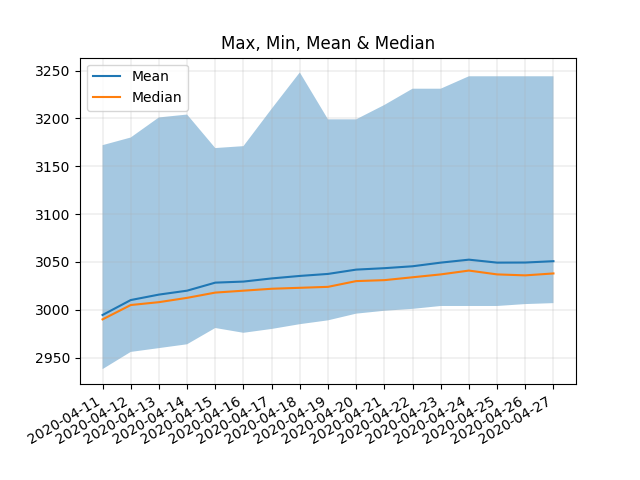
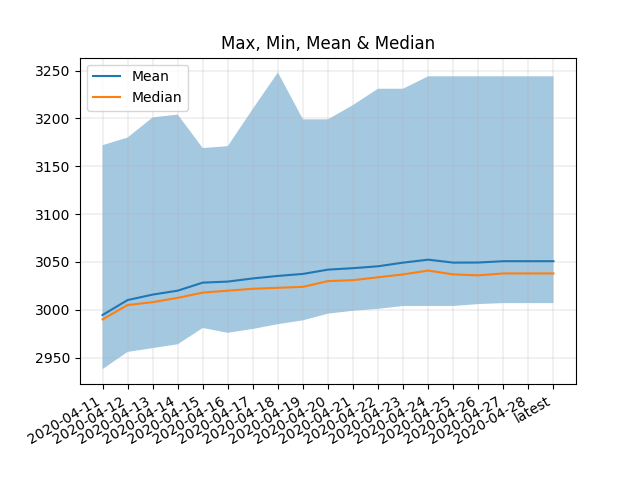
Tue Apr 28 10:18:40 EDT 2020

diff --git a/script/curl_leaderboards.py b/script/curl_leaderboards.py
@@ -7,7 +7,9 @@ import os
 pwd_path = os.path.realpath(__file__).rstrip("curl_leaderboards.py")
 stamp = datetime.today().strftime('%Y-%m-%d')
 stamp_json = f'{stamp}.json'
+latest_json = f'latest.json'
 json_file = os.path.join(pwd_path, "json", stamp_json)
+latest_file = os.path.join(pwd_path, "json", latest_json)
 
 url = "https://pokemongolive.com/_api/gbl.get_leaderboard"
 headers = {
@@ -28,3 +30,8 @@ json_data = json.loads(r.content)
 
 with open(json_file, 'w') as outfile:
     json.dump(json_data, outfile)
+
+with open(latest_file, 'w') as outfile:
+    json.dump(json_data, outfile)
+
+

diff --git a/README.md b/README.md
@@ -1,10 +1,12 @@
 # MMR Drift Status
 
-**Last Updated (UTC):** 2020-04-27 21:15:11.033094
+**Last Updated (UTC):** 2020-04-28 14:18:40.354480
 ![Figure 1](/images/fig1.png)
 ![Figure 2](/images/fig2.png)
 |date| min| max| mean| drift_daily| drift_total| median| stdev|
 |:---|:---|:---|:---|:---|:---|:---|:--- |
+|latest| 3007| 3244| 3050.8| 0.0| 56.2| 3038.0| 39.7|
+|2020-04-28| 3007| 3244| 3050.8| 0.0| 56.2| 3038.0| 39.7|
 |2020-04-27| 3007| 3244| 3050.8| 1.5| 56.2| 3038.0| 39.7|
 |2020-04-26| 3006| 3244| 3049.4| 0.1| 54.7| 3036.0| 40.5|
 |2020-04-25| 3004| 3244| 3049.3| -3.1| 54.7| 3037.0| 40.4|
